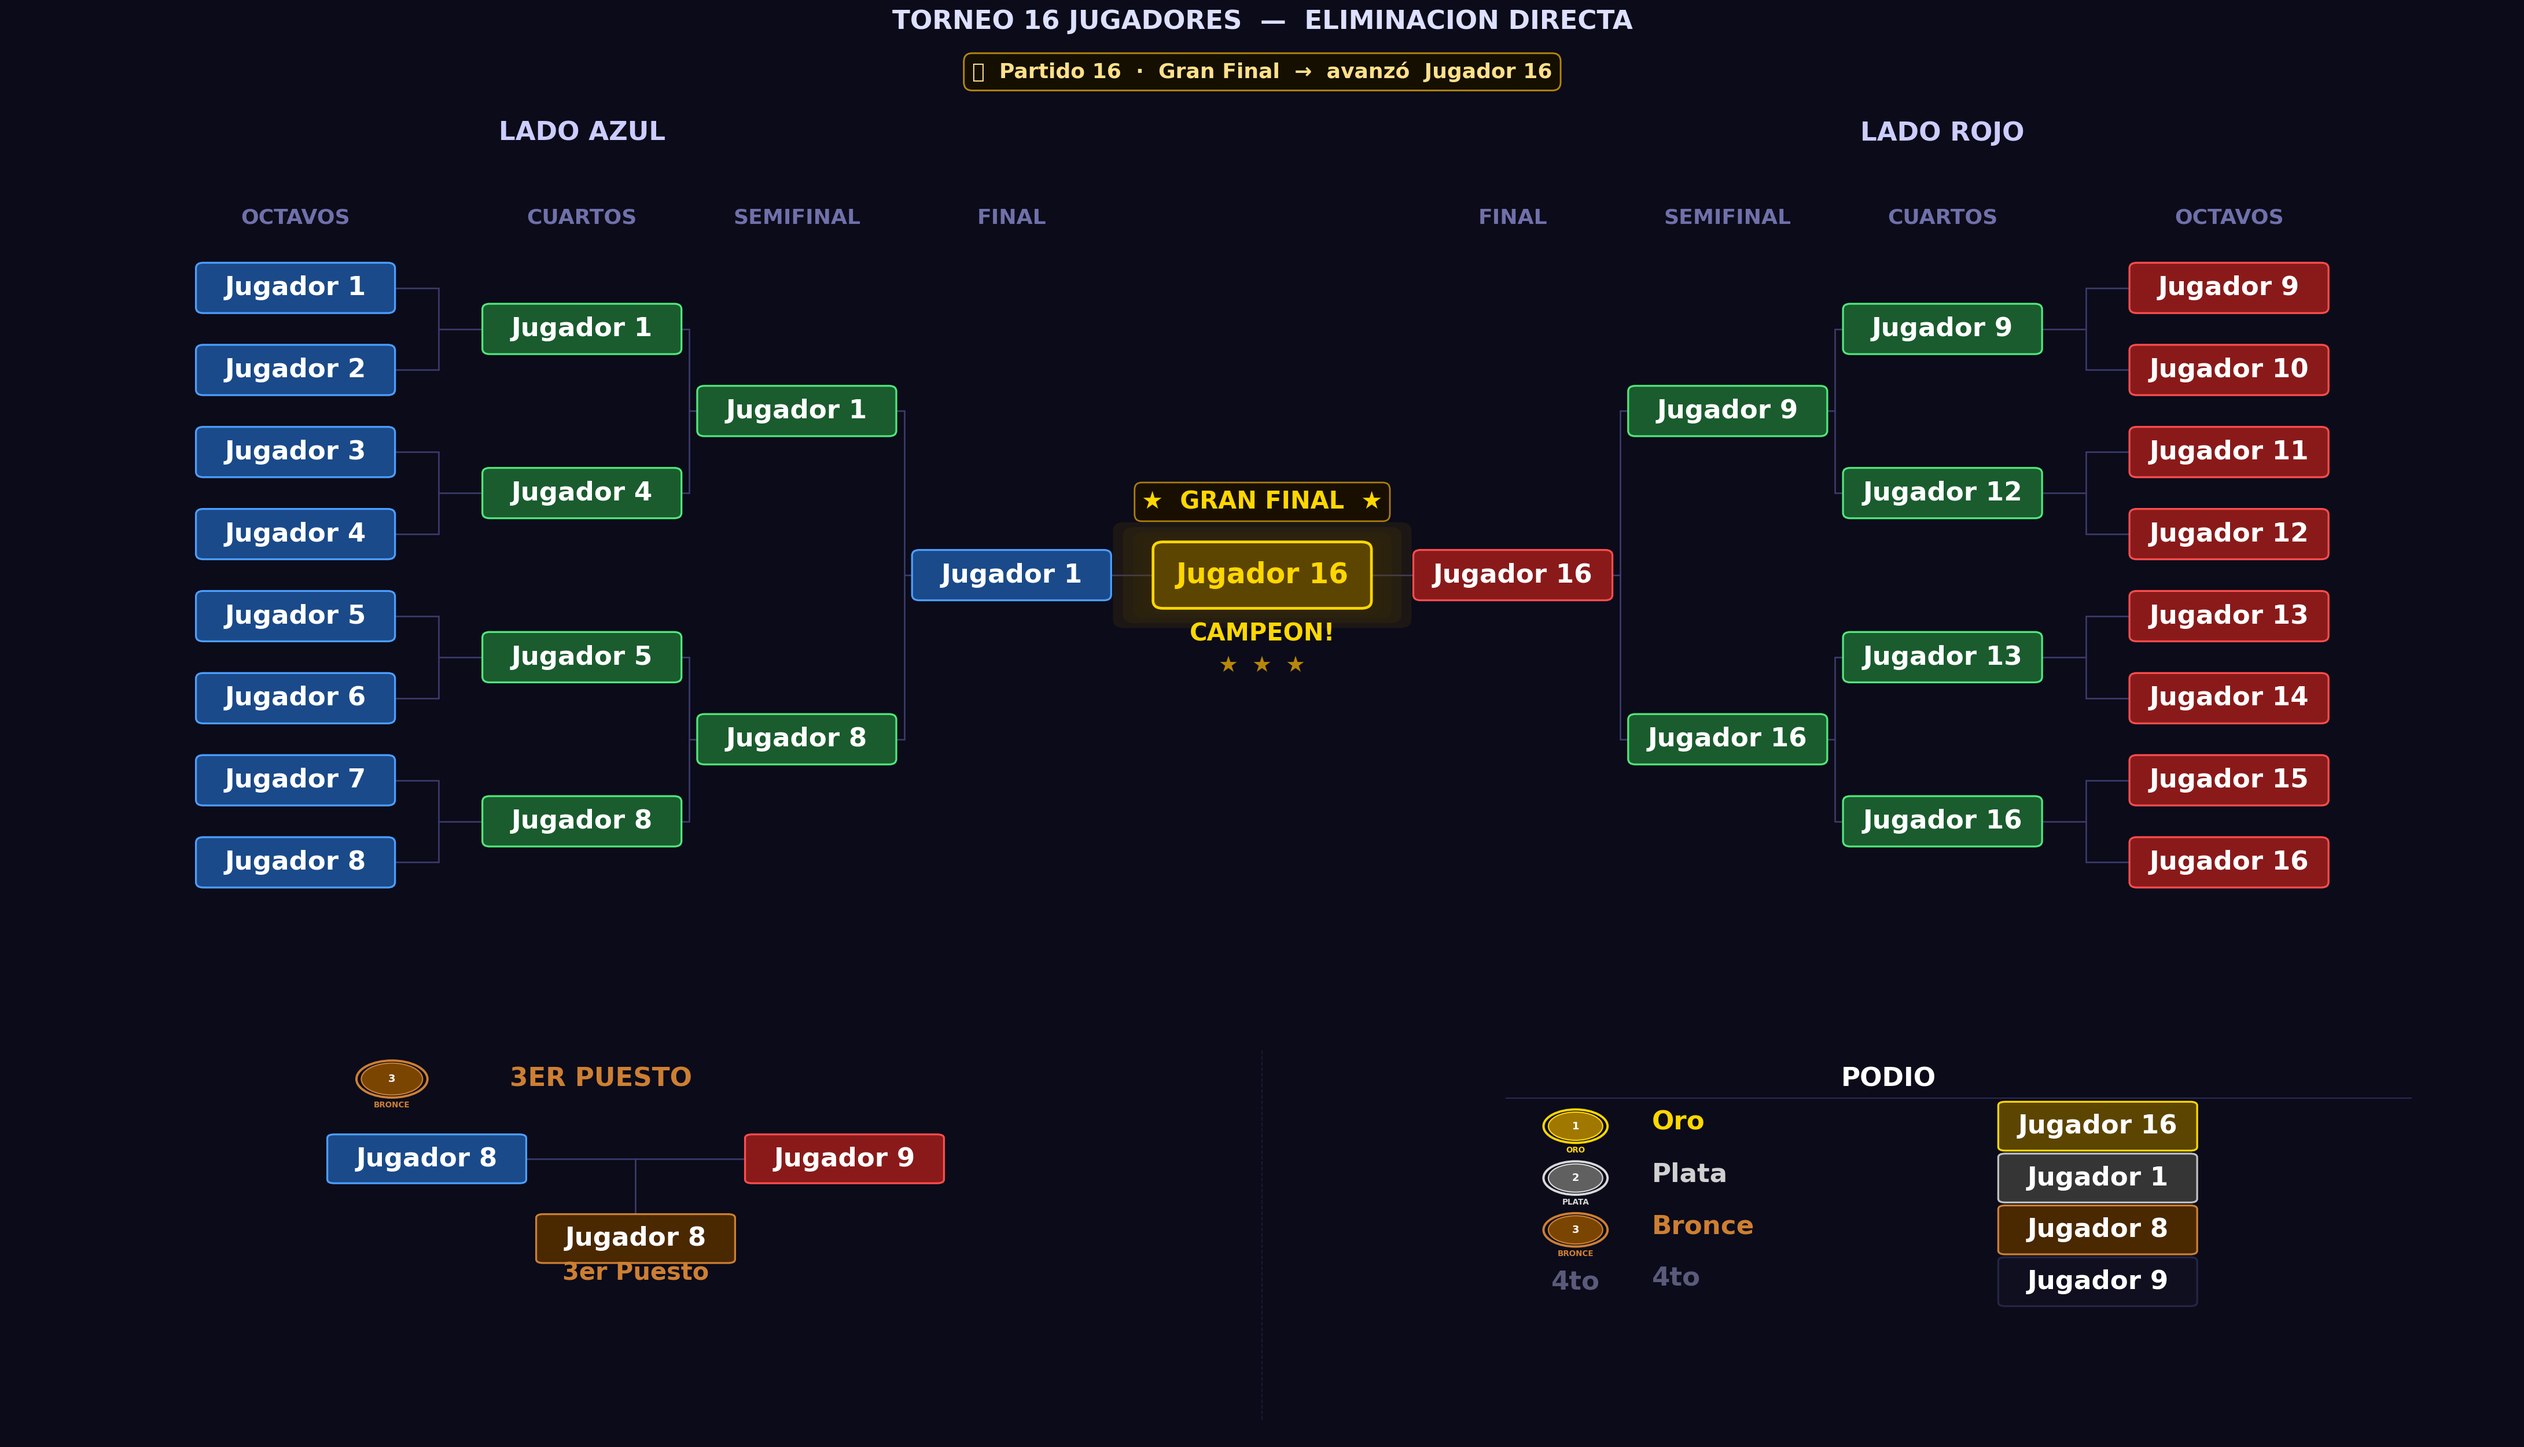
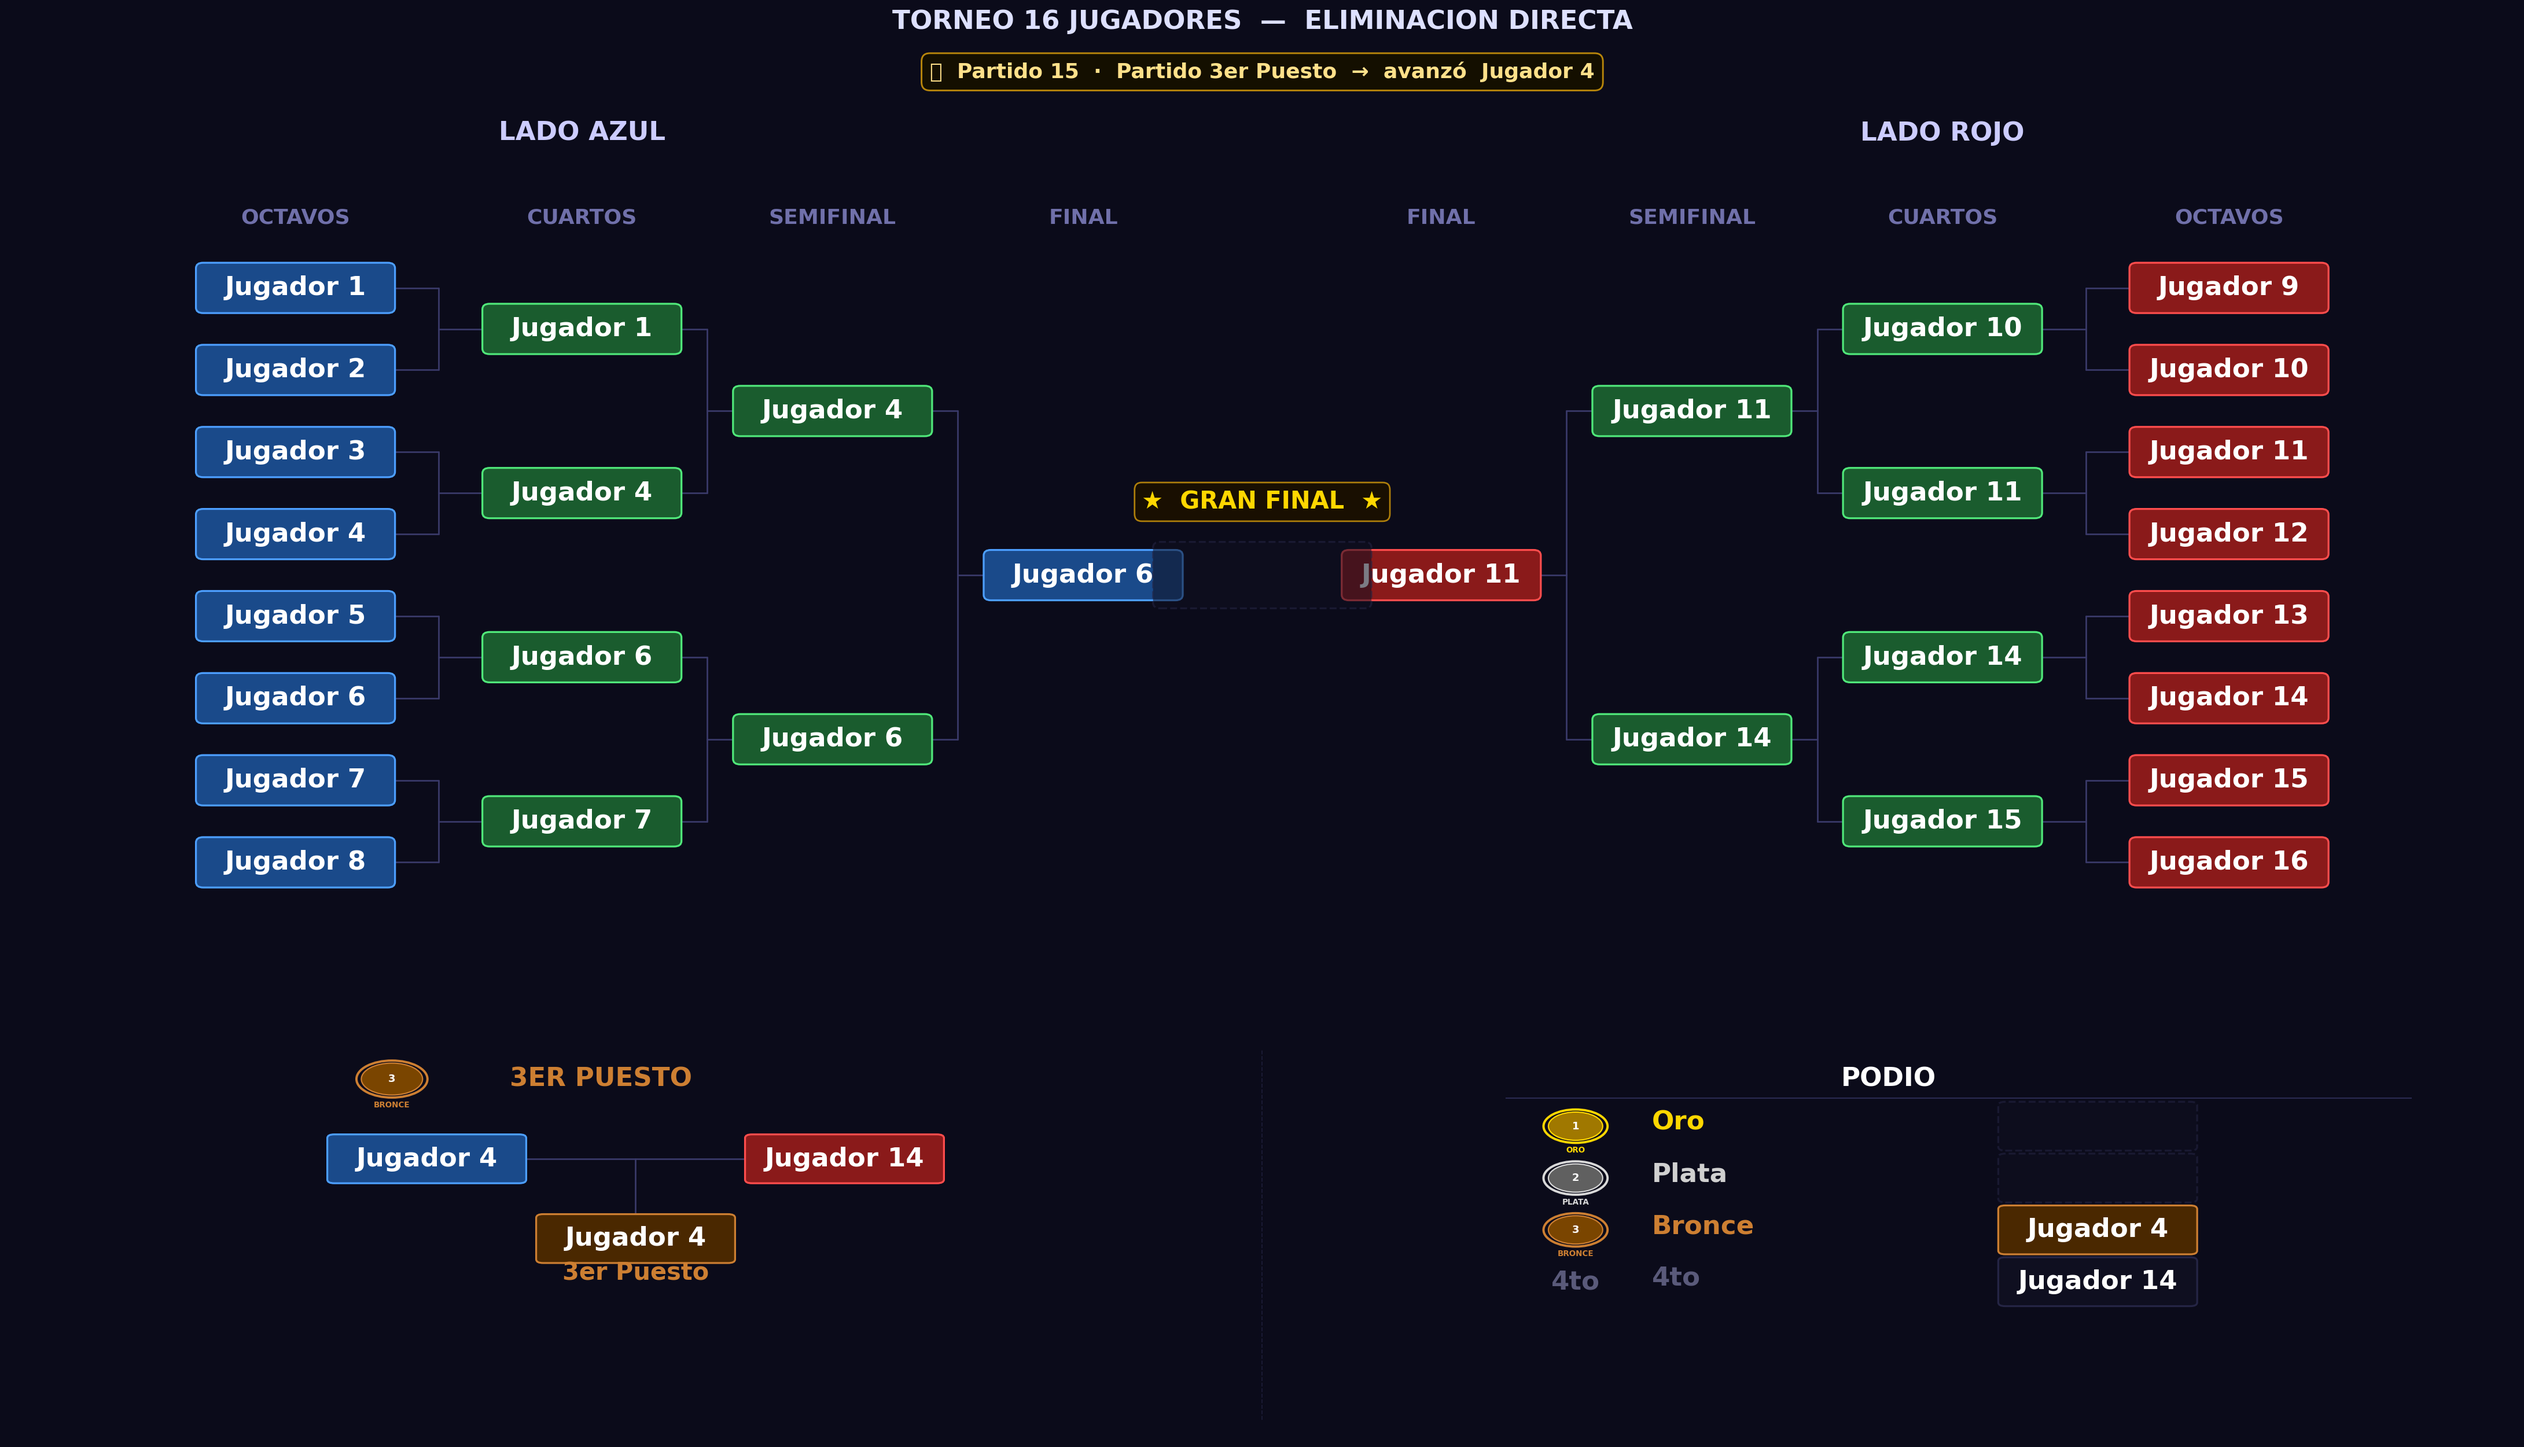
Fix: 10:13 05/06/2026

diff --git a/09_Cowork/09.py b/09_Cowork/09.py
@@ -68,8 +68,8 @@ N_SIDE = 8   # jugadores por lado
 
 # Posiciones X de cada ronda. Paso fijo = 4.0 u.
 STEP = 4.0
-XS_IZQ = [-13.5, -9.5, -6.5, -3.5]
-XS_DER = [ 13.5,  9.5,  6.5,  3.5]
+XS_IZQ = [-13.5, -9.5, -6, -2.5]
+XS_DER = [ 13.5,  9.5,  6,  2.5]
 
 # Límites del panel superior (bracket)
 XLIM_TOP = (-17.5, 17.5)
